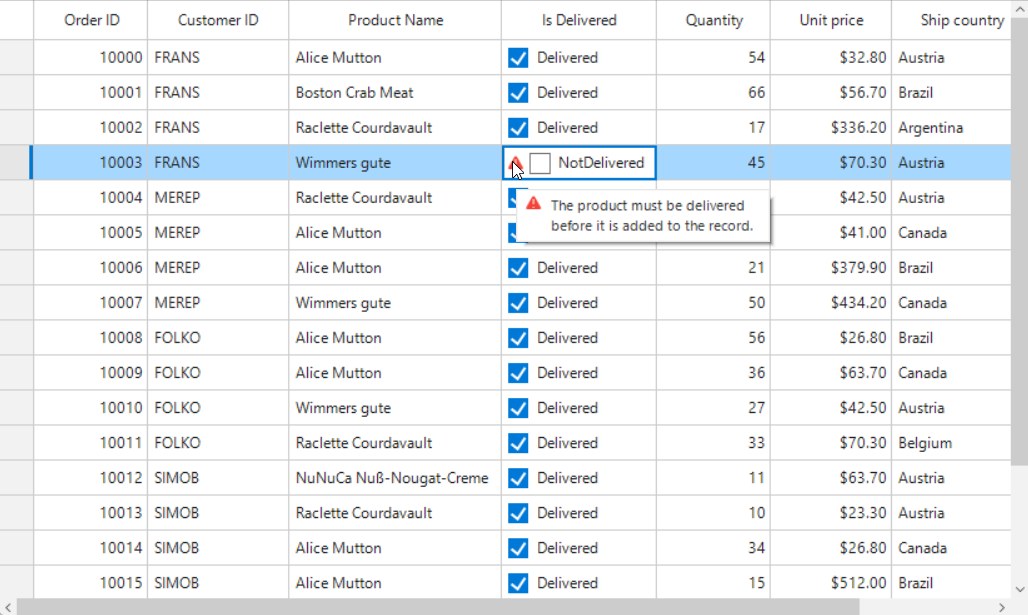
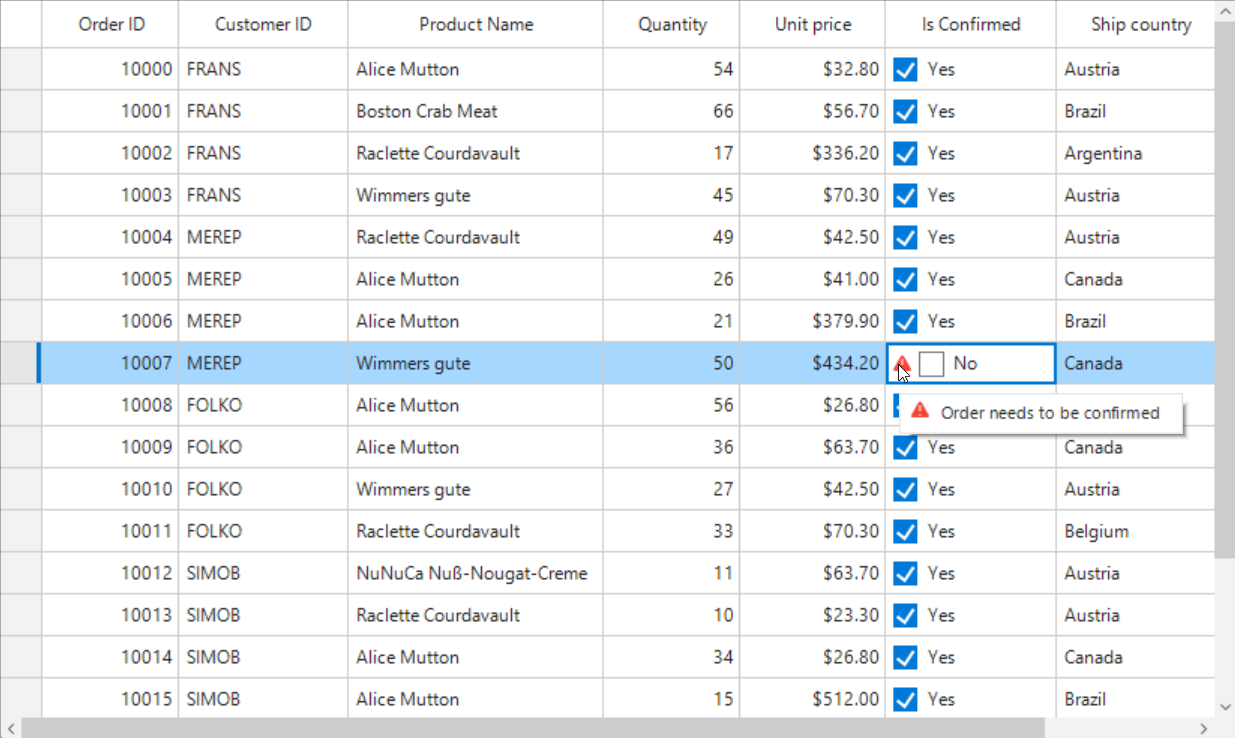
ES-830865 - Modified the content based on the concerns

diff --git a/WindowsForms/DataGrid/DataValidation.md b/WindowsForms/DataGrid/DataValidation.md
@@ -565,10 +565,9 @@ End Sub
 {% endtabs %}
 
 ### Validation for GridCheckboxColumn
-[SfDataGrid](https://help.syncfusion.com/cr/windowsforms/Syncfusion.WinForms.DataGrid.SfDataGrid.html) provides validation support for the [GridCheckBoxColumn](https://help.syncfusion.com/cr/windowsforms/Syncfusion.WinForms.DataGrid.GridCheckBoxColumn.html). Since the [GridCheckBoxColumn](https://help.syncfusion.com/cr/windowsforms/Syncfusion.WinForms.DataGrid.GridCheckBoxColumn.html) is a non-editable column, the validation can be achieved through [SfDataGrid.CellCheckBoxClick](https://help.syncfusion.com/cr/windowsforms/Syncfusion.WinForms.DataGrid.SfDataGrid.html#Syncfusion_WinForms_DataGrid_SfDataGrid_CellCheckBoxClick) event.
+Since the [GridCheckBoxColumn](https://help.syncfusion.com/cr/windowsforms/Syncfusion.WinForms.DataGrid.GridCheckBoxColumn.html) is a non-editable column, the validation can be achieved by using `SetCurrentCellValidated` and `SetCurrentRowValidated` methods.
 
-#### Cell Validation
-Cell validation can be achieved by invoking the SetCurrentCellValidated method with "false" as a parameter inside the corresponding [SfDataGrid.CellCheckBoxClick](https://help.syncfusion.com/cr/windowsforms/Syncfusion.WinForms.DataGrid.SfDataGrid.html#Syncfusion_WinForms_DataGrid_SfDataGrid_CellCheckBoxClick) event and validated inside the [CurrentCellValidating](https://help.syncfusion.com/cr/windowsforms/Syncfusion.WinForms.DataGrid.SfDataGrid.html#Syncfusion_WinForms_DataGrid_SfDataGrid_CurrentCellValidating) event. 
+Cell validation can be achieved by calling the `SetCurrentCellValidated` method with "false" as a parameter inside the corresponding [SfDataGrid.CellCheckBoxClick](https://help.syncfusion.com/cr/windowsforms/Syncfusion.WinForms.DataGrid.SfDataGrid.html#Syncfusion_WinForms_DataGrid_SfDataGrid_CellCheckBoxClick) event. The validation will be triggered when navigating the current cell.
 
 {% tabs %}
 {% highlight c# %}
@@ -577,7 +576,8 @@ this.sfDataGrid.CellCheckBoxClick += SfDataGrid_CellCheckBoxClick;
 
 private void SfDataGrid_CellCheckBoxClick(object sender, Syncfusion.WinForms.DataGrid.Events.CellCheckBoxClickEventArgs e)
 {
-	this.sfDataGrid.SetCurrentCellValidated(false);   
+	if(e.Column.CellType == "CheckBox")
+		this.sfDataGrid1.SetCurrentCellValidated(false);  
 }
 
 {% endhighlight %}
@@ -586,7 +586,9 @@ private void SfDataGrid_CellCheckBoxClick(object sender, Syncfusion.WinForms.Dat
 AddHandler sfDataGrid.CellCheckBoxClick, AddressOf sfDataGrid_CellCheckBoxClick
 
 Private Sub sfDataGrid_CellCheckBoxClick(sender As Object, e As CellCheckBoxClickEventArgs)
-	sfDataGrid.SetCurrentCellValidated(False) 
+	If e.Column.CellType = "CheckBox" Then
+		sfDataGrid.SetCurrentCellValidated(False)
+	End If
 End Sub
 
 {% endhighlight %}
@@ -594,8 +596,7 @@ End Sub
 
 ![Windows forms datagrid displays error icon while validating the cell in grid](DataValidation_images/DataValidation_img12.png)
 
-#### Row Validation
-Row validation can be achieved by invoking the SetCurrentRowValidated method with "false" as a parameter inside the corresponding [SfDataGrid.CellCheckBoxClick](https://help.syncfusion.com/cr/windowsforms/Syncfusion.WinForms.DataGrid.SfDataGrid.html#Syncfusion_WinForms_DataGrid_SfDataGrid_CellCheckBoxClick) event and validated inside the [RowValidating](https://help.syncfusion.com/cr/windowsforms/Syncfusion.WinForms.DataGrid.SfDataGrid.html#Syncfusion_WinForms_DataGrid_SfDataGrid_RowValidating) event.
+Row validation can be achieved by calling the `SetCurrentRowValidated` method with "false" as a parameter inside the corresponding [SfDataGrid.CellCheckBoxClick](https://help.syncfusion.com/cr/windowsforms/Syncfusion.WinForms.DataGrid.SfDataGrid.html#Syncfusion_WinForms_DataGrid_SfDataGrid_CellCheckBoxClick) event. The validation will be triggered when navigating the current cell to another row.
 
 {% tabs %}
 {% highlight c# %}
